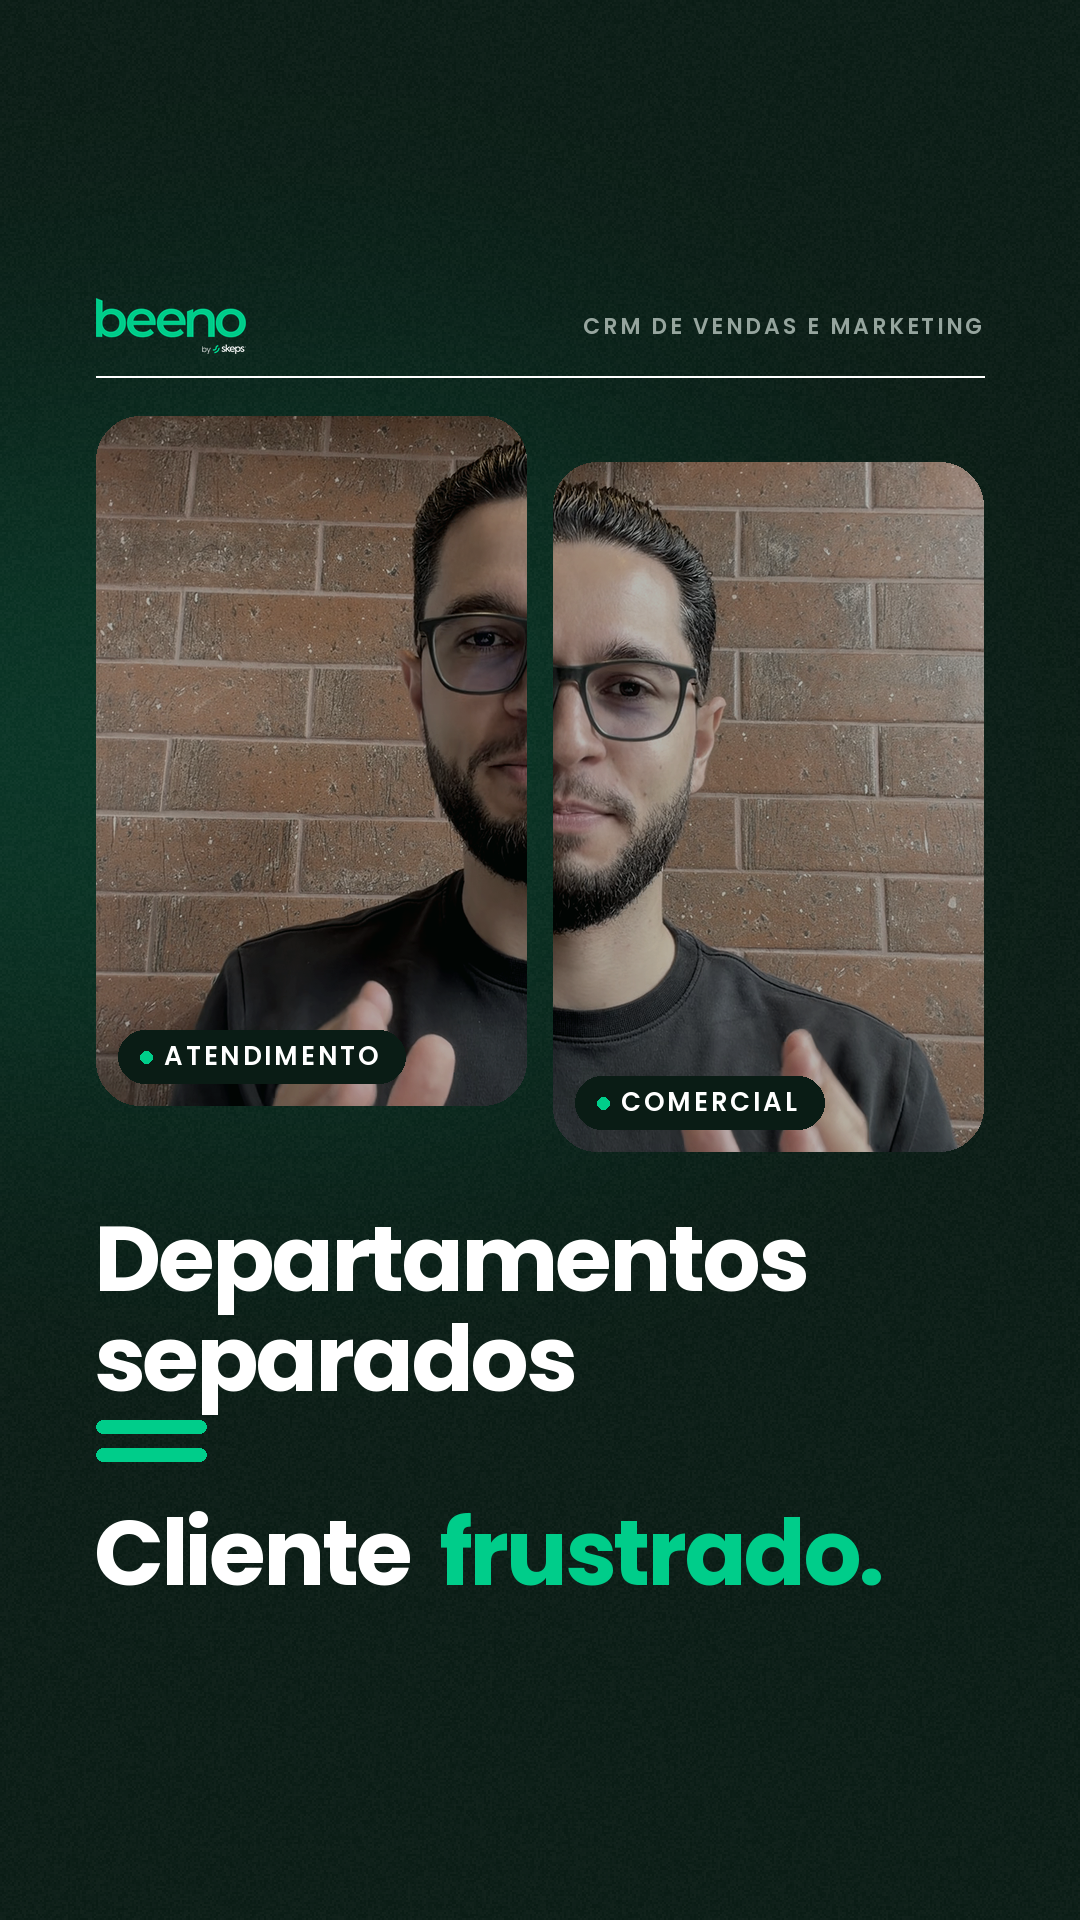
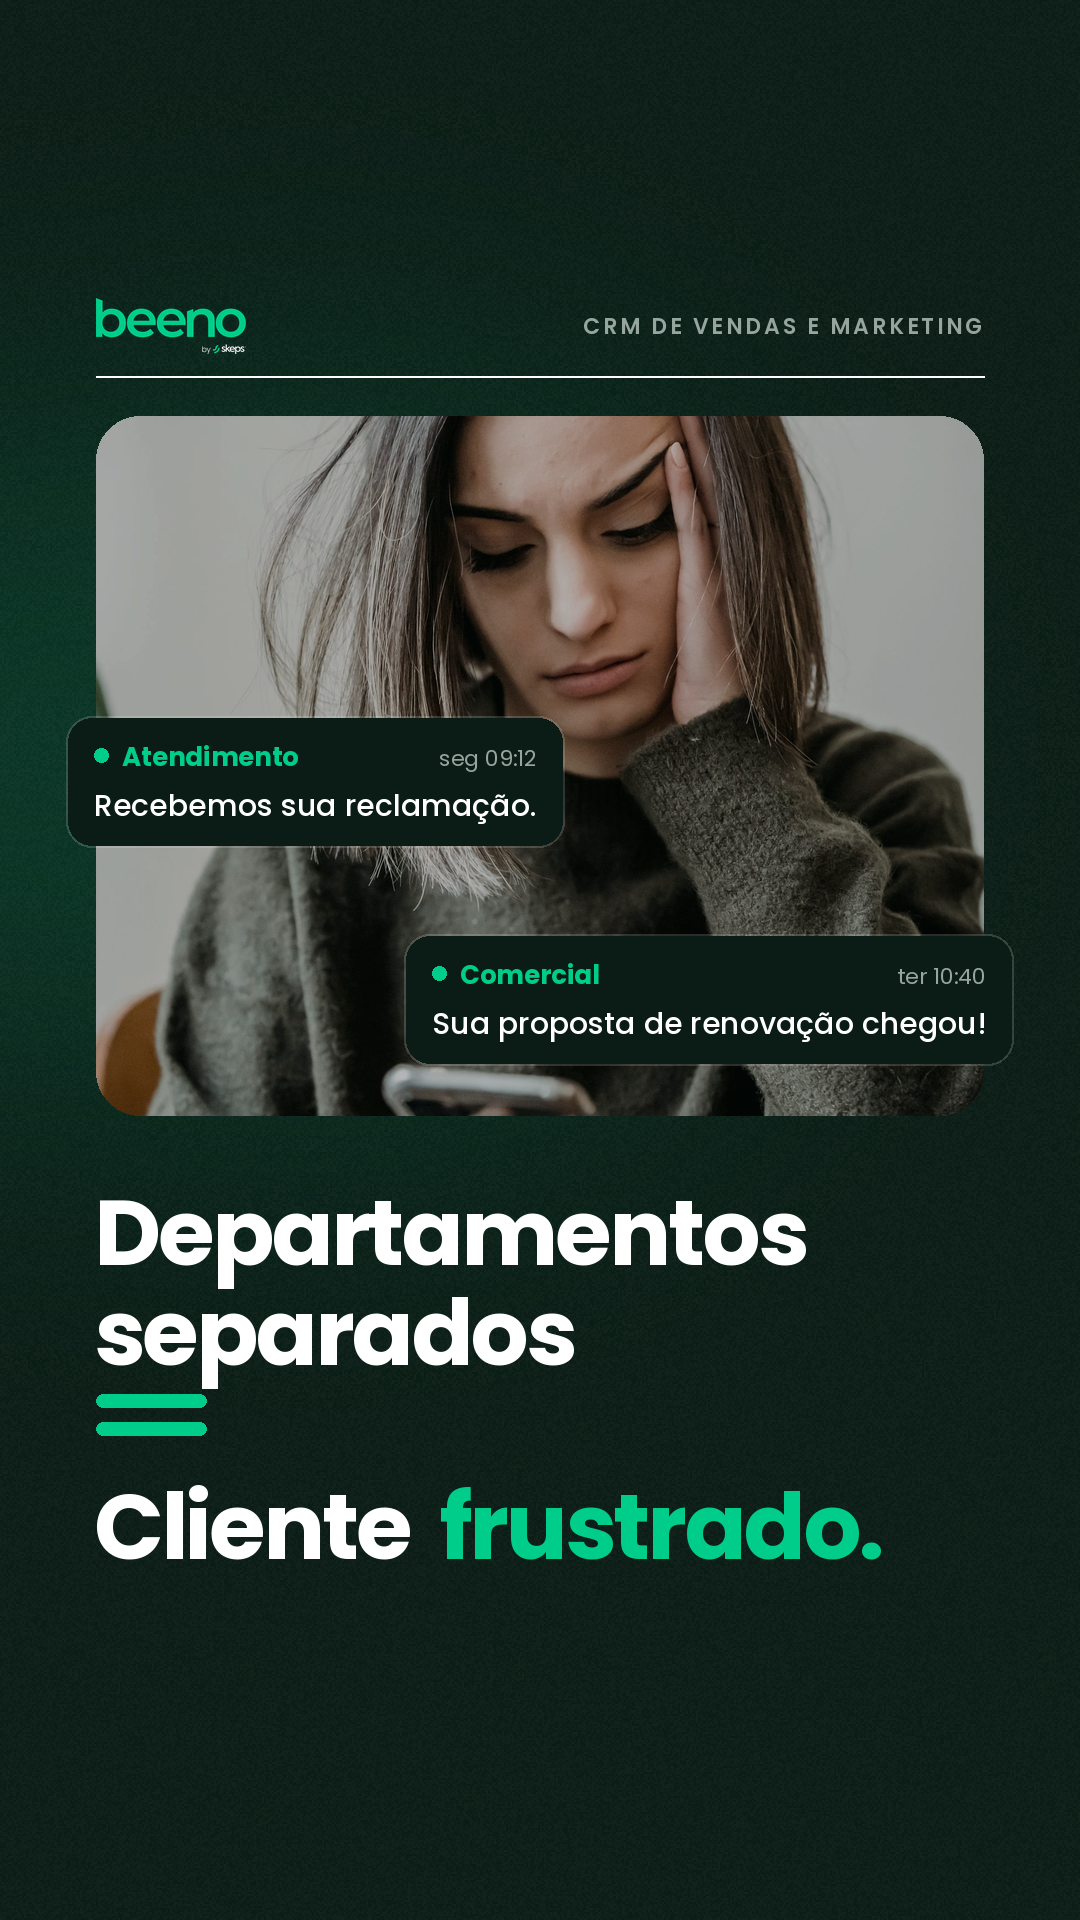
Capa do reel 01 com foto de banco (Pexels) e notificações contraditórias
Troca a foto dividida do apresentador por uma cliente frustrada olhando o
celular, com uma notificação do Atendimento e outra do Comercial.

Claude-Session: https://claude.ai/code/session_01D7x6hCXQERMFPrPbSwcUYh

diff --git a/editor/cover.py b/editor/cover.py
@@ -2,18 +2,18 @@
 
 Linguagem editorial/premium (fundo escuro, tipografia grande alinhada à esquerda,
 fios finos, foto em contêiner arredondado) com a identidade do Beeno.
-A foto do apresentador é dividida em dois blocos desencontrados (Atendimento /
-Comercial): a própria imagem mostra a separação.
+Foto de banco (Pexels, licença livre para uso comercial, sem atribuição): cliente
+frustrada olhando o celular, com duas notificações que se contradizem — uma do
+Atendimento e outra do Comercial — mostrando os departamentos que não se falam.
 
 Todo o conteúdo importante fica dentro do recorte 3:4 (1080x1440) que o Instagram
 mostra no grid do perfil.
 
-Uso: python3 editor/cover.py --src /caminho/Teleprompter-2026-06-10_15-50-07.mp4
+Uso: python3 editor/cover.py
 """
 import argparse
 import os
 import random
-import subprocess
 
 from PIL import Image, ImageDraw, ImageEnhance, ImageFilter, ImageOps
 
@@ -24,15 +24,12 @@ GRID_TOP = (H - 1440) // 2  # 240: topo do recorte 3:4 do grid
 MARGIN = 96
 
 
-def frame(src, t):
-    raw = subprocess.run(["ffmpeg", "-v", "error", "-ss", str(t), "-i", src, "-frames:v", "1", "-f", "rawvideo",
-                          "-pix_fmt", "rgb24", "-"], capture_output=True, check=True).stdout
-    return Image.frombytes("RGB", (1080, 1920), raw[: 1080 * 1920 * 3])
+PHOTO = os.path.join(ROOT, "assets", "stock", "pexels-6383268-cliente-frustrada.jpg")
 
 
 def grade(img):
     """Tratamento sóbrio: menos saturação, contraste maior e sombra puxada para o verde-tinta."""
-    img = ImageEnhance.Color(img).enhance(0.55)
+    img = ImageEnhance.Color(img).enhance(0.7)
     img = ImageEnhance.Contrast(img).enhance(1.12)
     img = ImageEnhance.Brightness(img).enhance(0.86)
     tint = Image.new("RGB", img.size, INK)
@@ -54,8 +51,8 @@ def background():
     return Image.alpha_composite(bg, grain)
 
 
-def rounded_photo(img, w, h, r):
-    img = ImageOps.fit(img, (w, h), Image.LANCZOS)
+def rounded_photo(img, w, h, r, centering=(0.5, 0.5)):
+    img = ImageOps.fit(img, (w, h), Image.LANCZOS, centering=centering)
     mask = Image.new("L", (w, h), 0)
     ImageDraw.Draw(mask).rounded_rectangle([0, 0, w - 1, h - 1], r, fill=255)
     out = Image.new("RGBA", (w, h), (0, 0, 0, 0))
@@ -63,19 +60,23 @@ def rounded_photo(img, w, h, r):
     return out
 
 
-def tag(txt, dot=GREEN):
-    f = font("SemiBold", 26)
-    ti = text_img(txt, f, WHITE, tracking=3)
-    w, h = ti.width + 70, 54
+def notification(dept, msg, when):
+    """Card de notificação sólido (sem transparência), no estilo dos gráficos do vídeo."""
+    fl, fm, fw = font("Bold", 26), font("Medium", 30), font("Regular", 22)
+    w = int(max(fm.getlength(msg), 56 + fl.getlength(dept) + 40 + fw.getlength(when)) + 56)
+    h = 132
     img = Image.new("RGBA", (w, h), (0, 0, 0, 0))
     d = ImageDraw.Draw(img)
-    d.rounded_rectangle([0, 0, w - 1, h - 1], h // 2, fill=rgba(INK))
-    d.ellipse([22, h / 2 - 6, 34, h / 2 + 6], fill=rgba(dot))
-    img.alpha_composite(ti, (44, (h - ti.height) // 2 - 1))
+    d.rounded_rectangle([0, 0, w - 1, h - 1], 26, fill=rgba(INK), outline=(255, 255, 255, 40), width=2)
+    d.ellipse([28, 32, 42, 46], fill=rgba(GREEN))
+    d.text((56, 22), dept, font=fl, fill=rgba(GREEN))
+    tw = fw.getlength(when)
+    d.text((w - 28 - tw, 26), when, font=fw, fill=rgba(MUTED))
+    d.text((28, 68), msg, font=fm, fill=rgba(WHITE))
     return img
 
 
-def build(src, t, out_png):
+def build(out_png):
     c = background()
     d = ImageDraw.Draw(c)
 
@@ -87,25 +88,19 @@ def build(src, t, out_png):
     c.alpha_composite(eb, (W - MARGIN - eb.width, y0 + 10))
     d.line([(MARGIN, y0 + 78), (W - MARGIN, y0 + 78)], fill=(255, 255, 255, 46), width=2)
 
-    # foto dividida em dois blocos desencontrados
-    gap, pw, ph, r = 26, 431, 690, 44
-    full = grade(frame(src, t))
-    ch = int(540 * ph / pw)  # mesma proporção dos blocos: nada é recortado a mais
-    photo = full.crop((0, 490, 1080, 490 + ch))  # cabeça até as mãos afastadas
-    half = photo.width // 2
+    # foto da cliente frustrada + duas notificações que se contradizem
+    pw, ph = W - 2 * MARGIN, 700
     py = y0 + 118
-    left = rounded_photo(photo.crop((0, 0, half, photo.height)), pw, ph, r)
-    right = rounded_photo(photo.crop((half, 0, photo.width, photo.height)), pw, ph, r)
-    lx, rx = MARGIN, MARGIN + pw + gap
-    c.alpha_composite(left, (lx, py))
-    c.alpha_composite(right, (rx, py + 46))
-    tl, tr = tag("ATENDIMENTO"), tag("COMERCIAL")
-    c.alpha_composite(tl, (lx + 22, py + ph - tl.height - 22))
-    c.alpha_composite(tr, (rx + 22, py + 46 + ph - tr.height - 22))
+    photo = rounded_photo(grade(Image.open(PHOTO).convert("RGB")), pw, ph, 44, centering=(0.5, 0.42))
+    c.alpha_composite(photo, (MARGIN, py))
+    n1 = notification("Atendimento", "Recebemos sua reclamação.", "seg 09:12")
+    n2 = notification("Comercial", "Sua proposta de renovação chegou!", "ter 10:40")
+    c.alpha_composite(n1, (MARGIN - 30, py + 300))
+    c.alpha_composite(n2, (W - MARGIN - n2.width + 30, py + ph - n2.height - 50))
 
     # título-equação
     f = font("Bold", 92)
-    y = py + ph + 46 + 40
+    y = py + ph + 50
     for line in ("Departamentos", "separados"):
         im = text_img(line, f, WHITE, tracking=-3)
         c.alpha_composite(im, (MARGIN - 4, y))
@@ -128,11 +123,9 @@ def build(src, t, out_png):
 
 def main():
     ap = argparse.ArgumentParser()
-    ap.add_argument("--src", required=True)
-    ap.add_argument("--t", type=float, default=14.5, help="segundo do bruto usado na foto")
-    args = ap.parse_args()
+    ap.parse_args()
     out = os.path.join(ROOT, "output", "BEENO-REEL01-capa.png")
-    build(args.src, args.t, out)
+    build(out)
     print("->", out)
 
 

diff --git a/README.md b/README.md
@@ -12,7 +12,8 @@ Reels do Beeno editados com a mesma linguagem dos ADs da RVOPS (ADS 05), com a i
 1080x1920, 30fps, H.264 + AAC, -14 LUFS (padrão Reels).
 
 Capa do reel 01: `output/BEENO-REEL01-capa.png` (1080x1920, conteúdo dentro do recorte 3:4 do grid),
-gerada por `python3 editor/cover.py --src /caminho/Teleprompter-2026-06-10_15-50-07.mp4`.
+gerada por `python3 editor/cover.py`. Foto: Liza Summer / Pexels (licença Pexels: uso comercial livre,
+sem atribuição obrigatória), em `assets/stock/`.
 
 ## Conceito (v5, após feedback)
 
